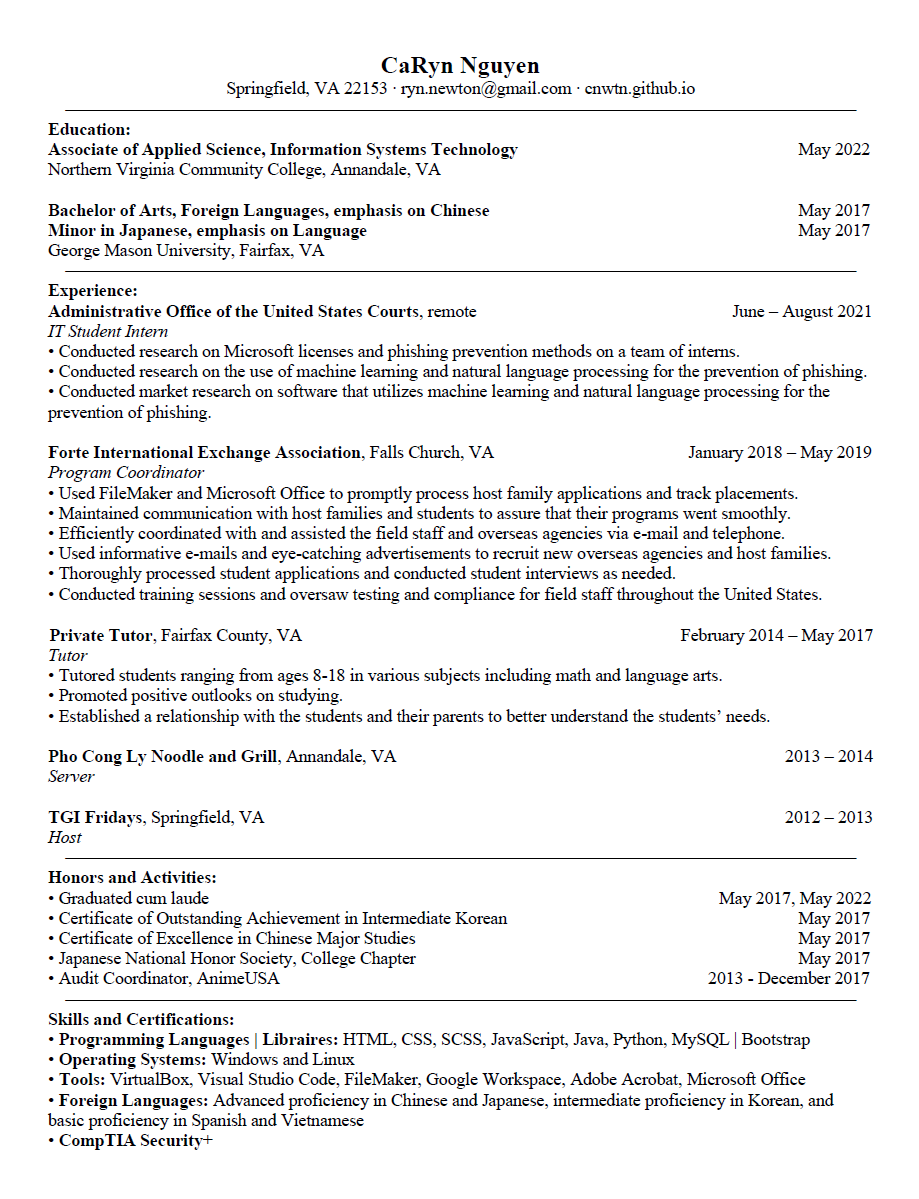
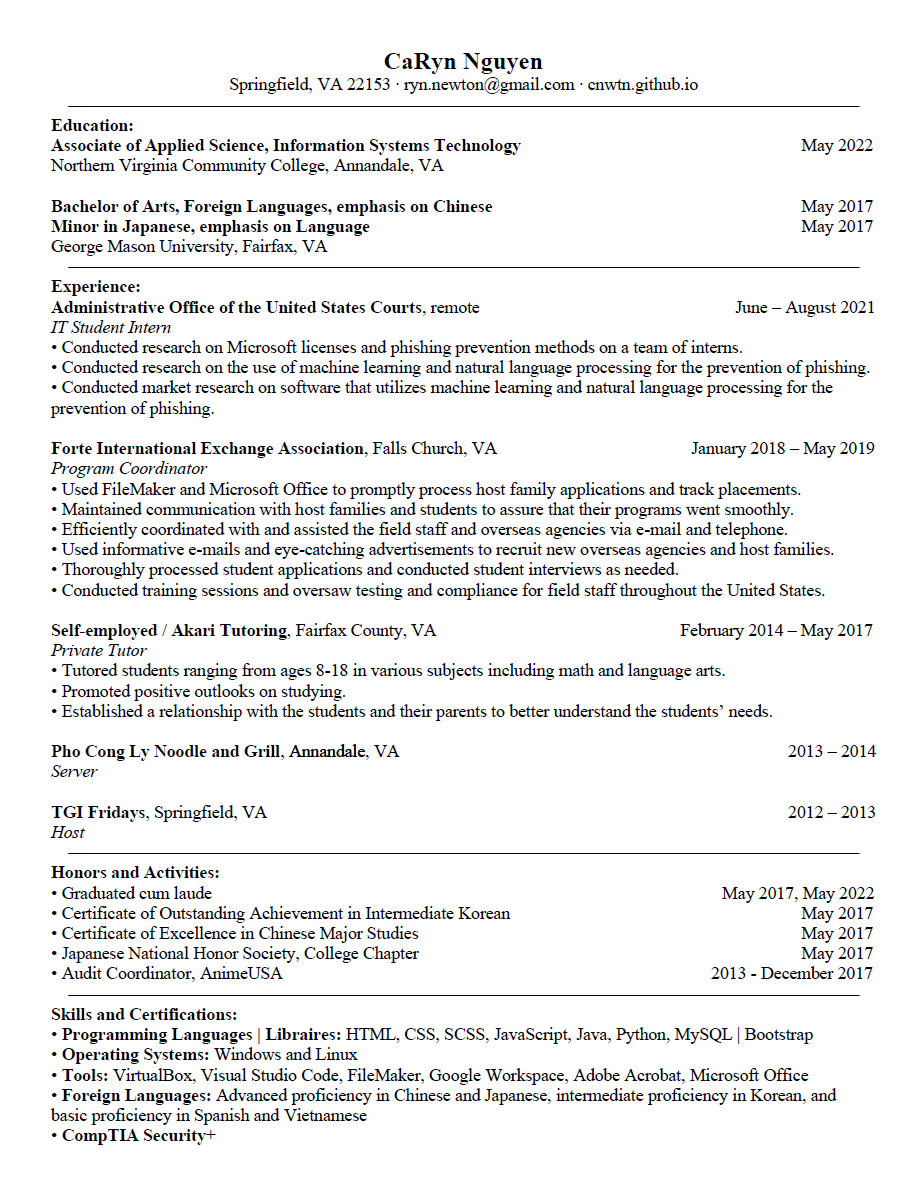
Resume corrections

Changed region(s): [[0.0305, 0.0312, 0.9445, 0.9688], [0.8531, 0.0938, 0.9445, 0.2188]]

diff --git a/index.html b/index.html
@@ -114,7 +114,7 @@
                     <li>Thoroughly processed student applications and conducted student interviews as needed.</li>
                     <li>Conducted training sessions and oversaw testing and compliance for field staff throughout the United States.</li>
                 </ul>
-                <p><i><span class="topic">Private Tutor</span>, Fairfax County, VA &mdash; Tutor</i><span class="dates">February 2014 - May 2017</span></p>
+                <p><i><span class="topic">Self-employed / Akari Tutoring</span>, Fairfax County, VA &mdash; Private Tutor</i><span class="dates">February 2014 - May 2017</span></p>
                 <ul>
                     <li>Tutored students ranging from ages 8-18 in various subjects including math and language arts. </li>
                     <li>Promoted positive outlooks on studying. </li>
